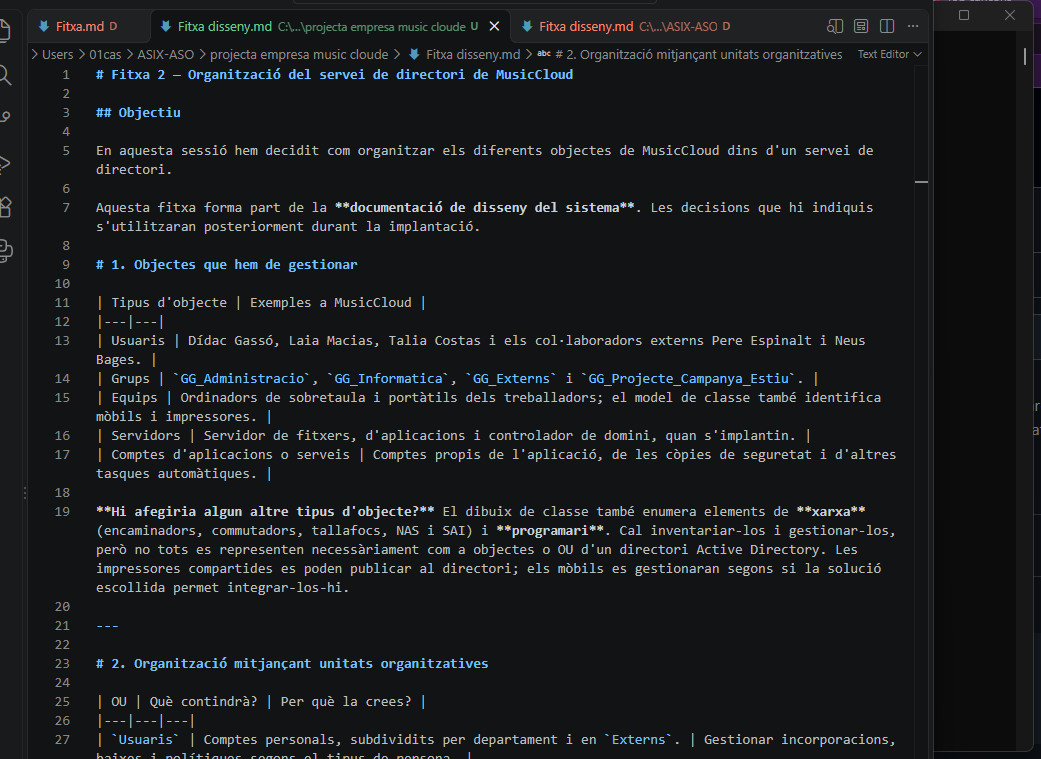
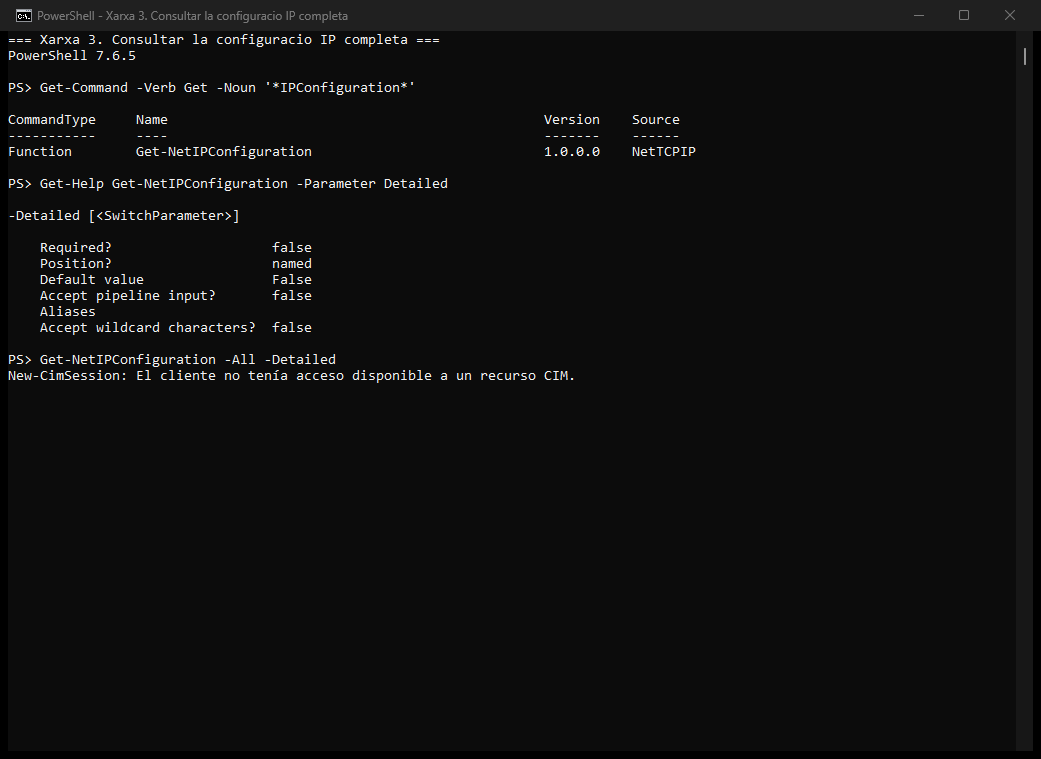
Completo les dades de xarxa amb ipconfig i reviso les captures

diff --git a/Powershell/01.Fitxers i carpetes/01.Fitxers i carpetes.md b/Powershell/01.Fitxers i carpetes/01.Fitxers i carpetes.md
@@ -380,3 +380,53 @@ Les ordres s'han descobert amb `Get-Command` i `Get-Help`. He conservat els erro
 ---
 
 
+## 6. Comprovació complementària amb ipconfig
+
+Per obtenir dades reals malgrat els errors de CIM, he executat `ipconfig /all` des de PowerShell. És una ordre externa de Windows, **no un cmdlet**; aquesta comprovació complementa les consultes anteriors. Les ordres dels apartats 1 a 5 s'han investigat amb `Get-Command` i `Get-Help`.
+
+### Adaptadors i adreces IPv4
+
+Per fer llegible la captura he filtrat la sortida, conservant els noms d'adaptador, les IPv4, les màscares i les passarel·les:
+
+```powershell
+ipconfig /all | Select-String -Pattern '^Adaptador|IPv4|M.scara|Puerta'
+```
+
+![Adaptadors i adreces IPv4 obtinguts amb ipconfig](./Imatges/10-ipconfig-ipv4.png)
+
+Hi apareixen adaptadors físics i virtuals: Wi-Fi, Ethernet, Ethernet 2, ProtonVPN, dues interfícies Wi-Fi Direct, una interfície TAP, Bluetooth i vEthernet de WSL.
+
+| Interfície | IPv4 | Màscara | Passarel·la mostrada |
+|---|---|---|---|
+| Wi-Fi | `172.24.2.151` | `255.255.0.0` | `172.24.0.1` |
+| Ethernet 2 (VirtualBox) | `192.168.56.1` | `255.255.255.0` | Sense valor |
+| ProtonVPN | `10.2.0.2` | `255.255.255.255` | `0.0.0.0` (valor mostrat per la VPN) |
+| vEthernet de WSL | `172.20.176.1` | `255.255.240.0` | Sense valor |
+
+### Configuració detallada de la Wi-Fi
+
+```powershell
+ipconfig /all | Select-String -Pattern 'Wi-Fi:$' -Context 0,21
+```
+
+![Fragment de configuració completa de la Wi-Fi](./Imatges/10-ipconfig-wifi.png)
+
+La interfície Wi-Fi utilitza l'adaptador Intel(R) Wi-Fi 6 AX201 160MHz. Té DHCP activat i el servidor DHCP és `172.24.0.2`. La seva passarel·la és `172.24.0.1`, la destinació escollida per a la prova de connectivitat.
+
+### Servidors DNS
+
+```powershell
+ipconfig /all | Select-String -Pattern 'Servidores DNS' -Context 0,2
+```
+
+![Servidors DNS mostrats per ipconfig](./Imatges/10-ipconfig-dns.png)
+
+| Interfície | Servidors DNS configurats |
+|---|---|
+| ProtonVPN | `10.2.0.1` |
+| Wi-Fi | `185.228.168.168`, `208.67.222.222` i `8.8.8.8` |
+
+Aquests són els valors configurats que mostra `ipconfig`; no he fet una prova de resolució DNS ni puc afirmar, només amb aquest llistat, quin servidor s'utilitza en cada consulta.
+
+**Estat de les proves:** les operacions amb fitxers i carpetes han funcionat. La informació de xarxa s'ha pogut llegir amb `ipconfig`, però cal repetir els quatre cmdlets de consulta en una sessió amb accés a CIM. La prova ICMP també queda pendent de repetir fora de l'entorn restringit.
+
